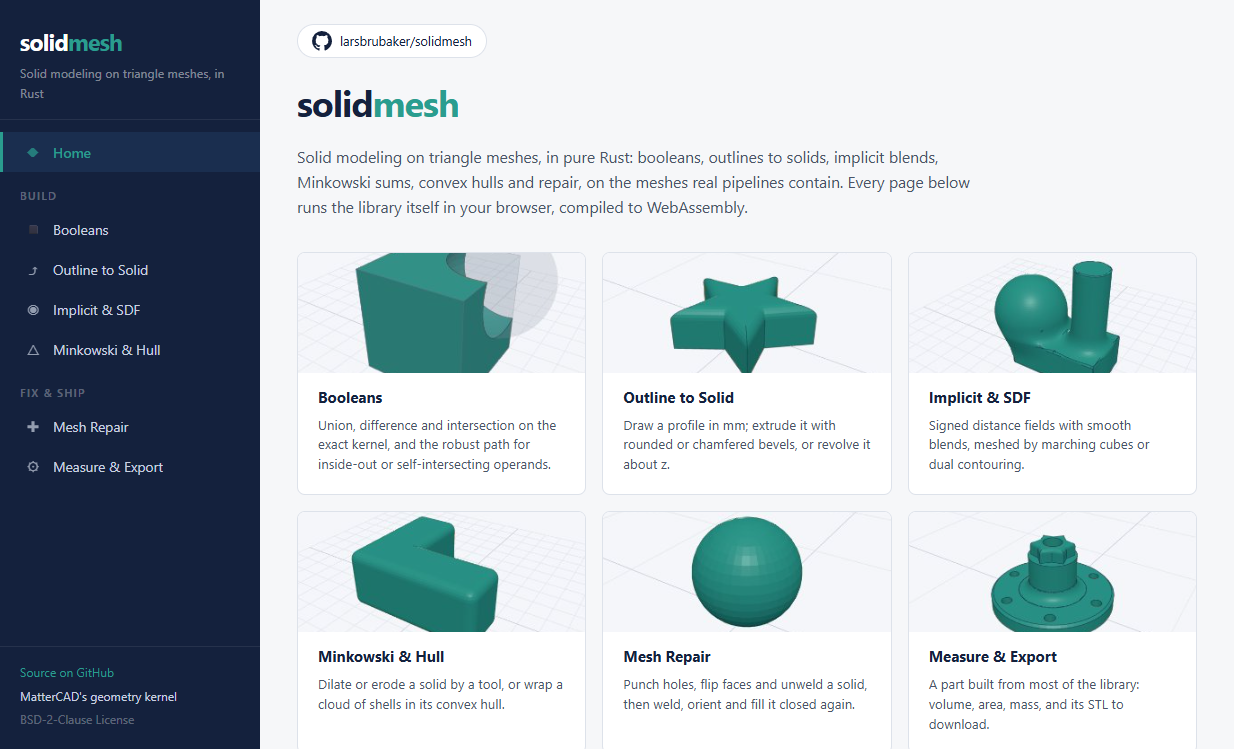
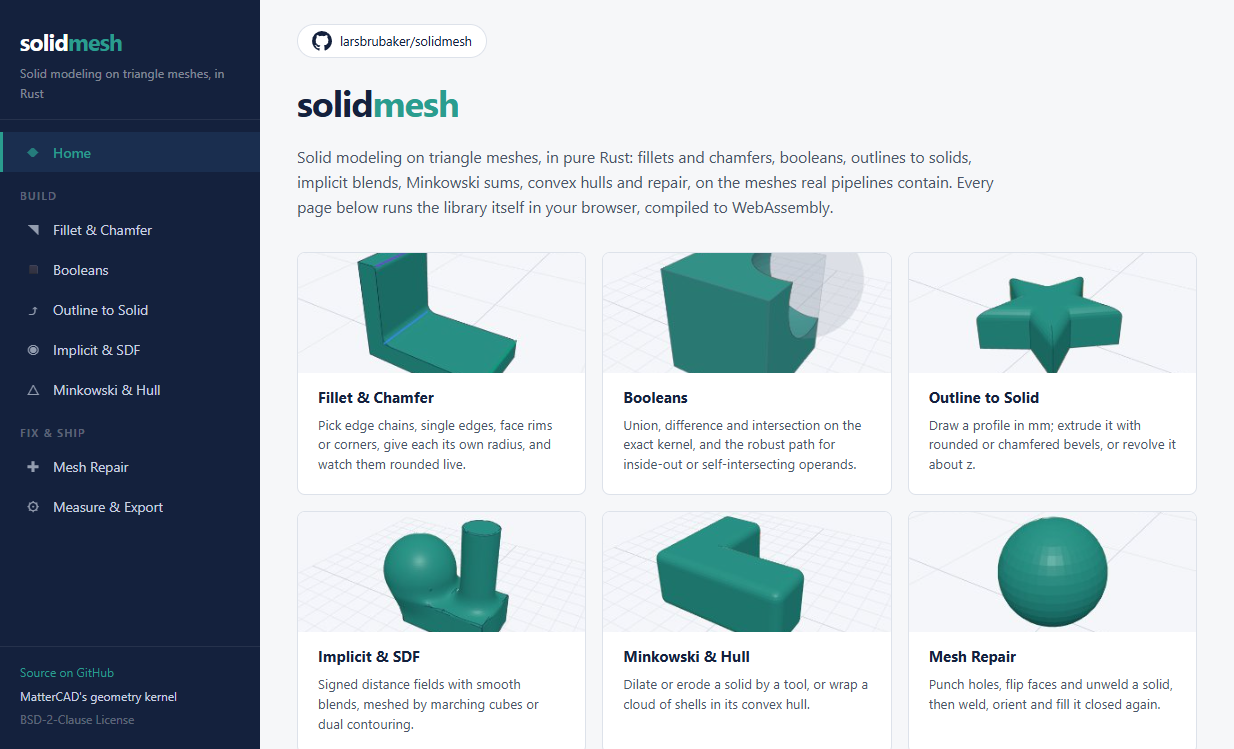
The README and its hero show the Fillet & Chamfer page: its thumbnail, the seventh card first in the grid, and the demo text no longer saying fillets join later

diff --git a/README.md b/README.md
@@ -38,11 +38,13 @@ one the crate will publish under.
 ## Demo
 
 The [live demo](https://larsbrubaker.github.io/solidmesh/) runs the library itself in the browser,
-compiled to WebAssembly: booleans (including inside-out and self-intersecting operands), outlines
+compiled to WebAssembly: fillets and chamfers through their one entry point,
+`bevel::part::bevel_part` (pick edge chains, single edges, face rims or corners on a part, give
+each pick its own radius, and see the part rounded; a pick that does not fit is refused with the
+size that would), booleans (including inside-out and self-intersecting operands), outlines
 extruded with bevels or revolved, smooth implicit blends meshed by marching cubes or dual
 contouring, Minkowski sums and convex hulls, mesh repair, and a part to measure and download as
-STL. Fillets and chamfers, whose one entry point is `bevel::part::bevel_part`, join it next. Each page shows the
-operation's time and the result's triangle count, volume and area.
+STL. Each page shows the operation's time and the result's triangle count, volume and area.
 
 It lives in `demo/`: `demo/wasm` is the bindings crate (a workspace member, never published), the
 pages are TypeScript built with [Bun](https://bun.sh), and `.github/workflows/deploy-demo.yml`
